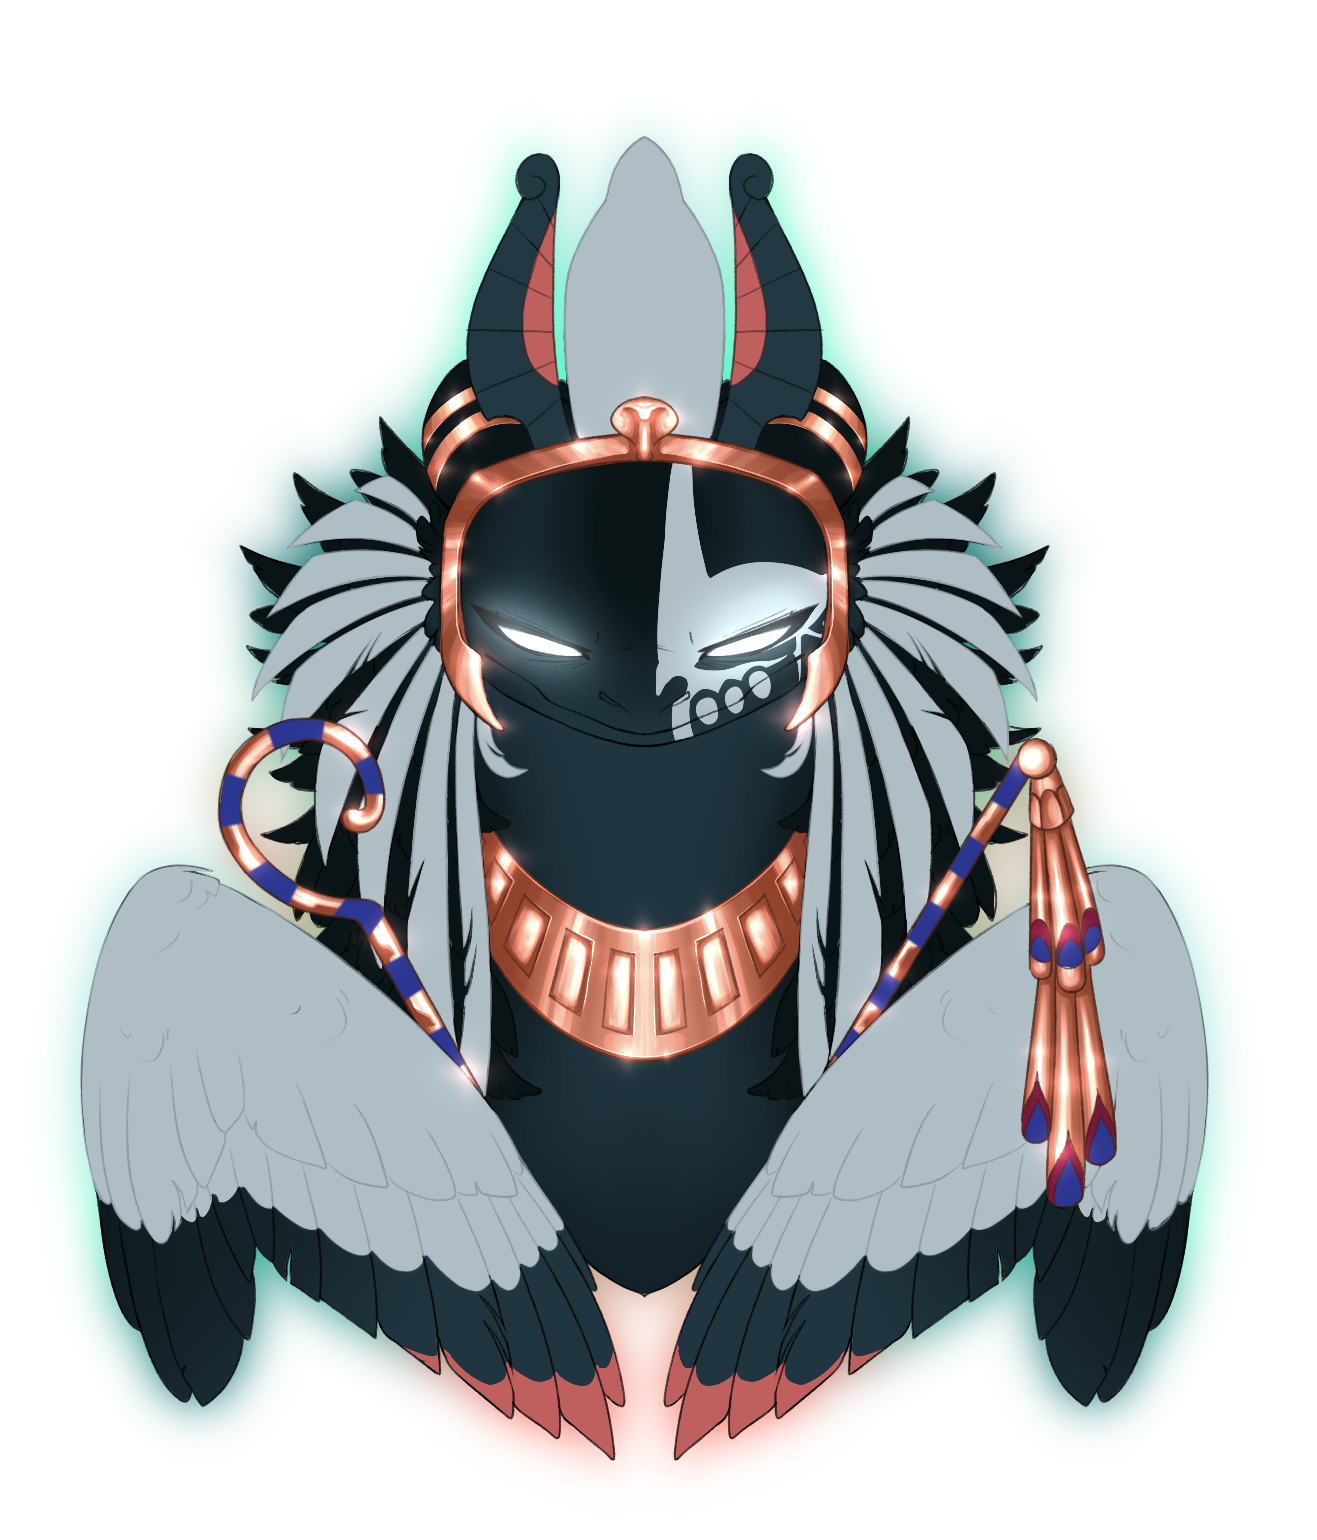
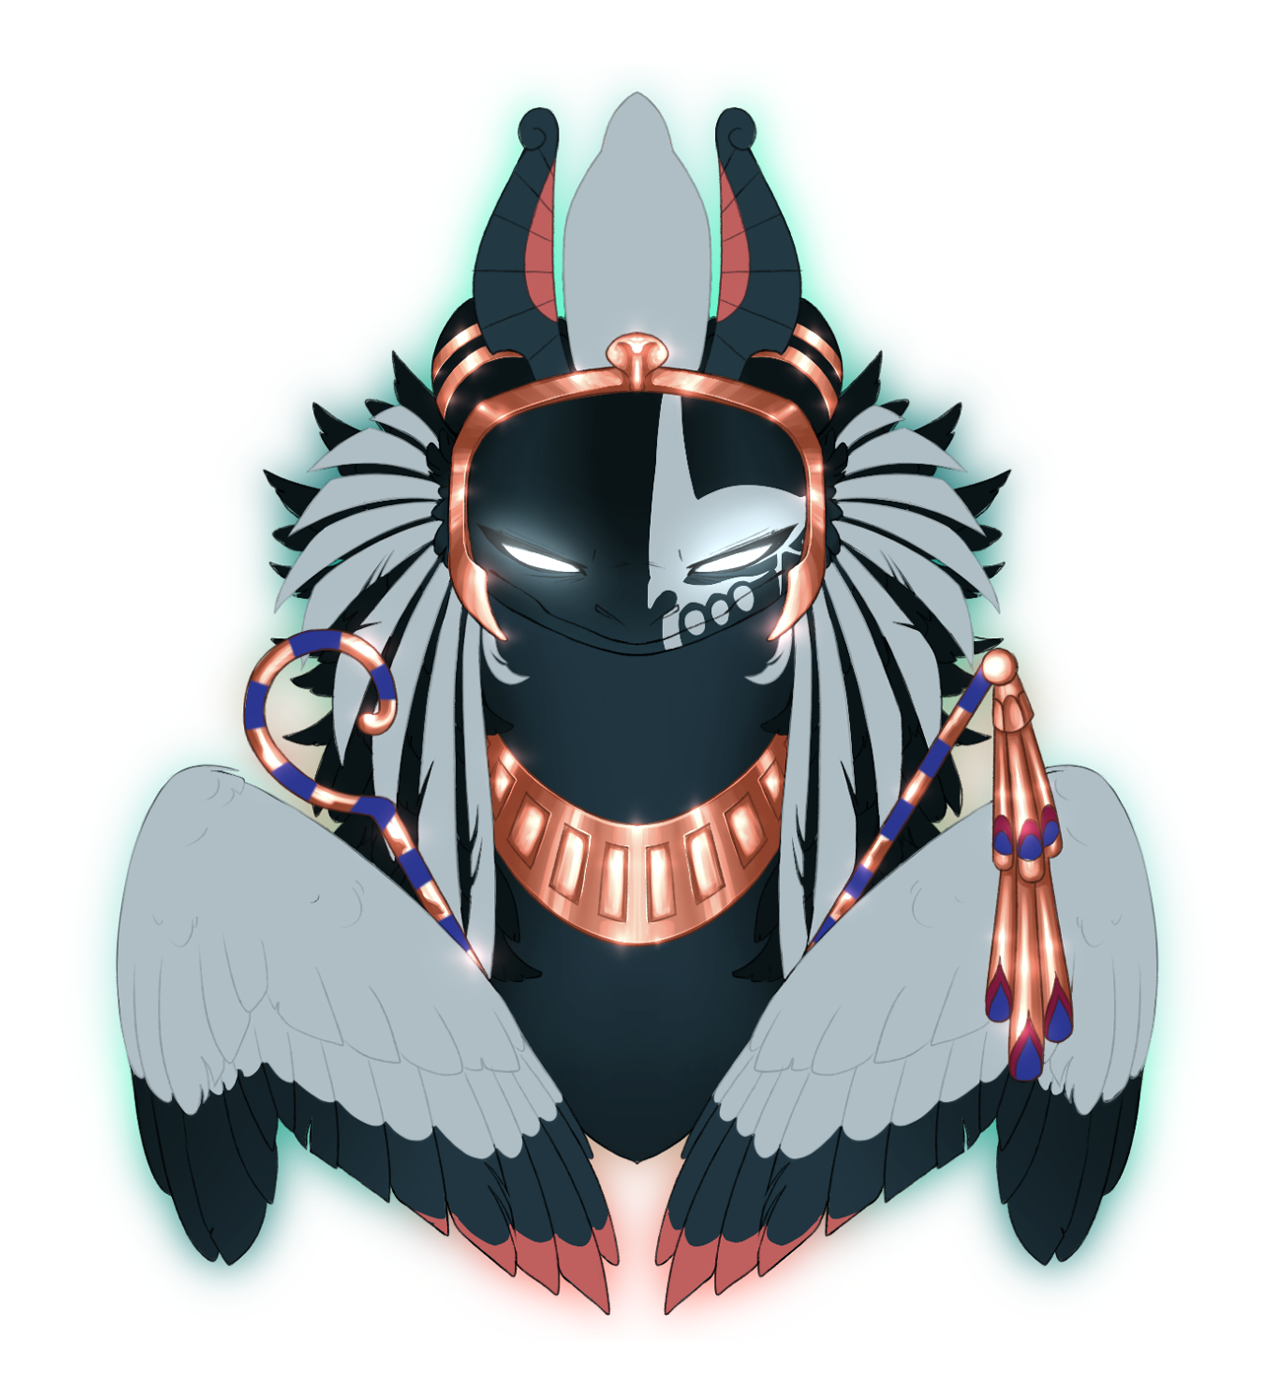
Final changes
Added new questions and edited the colours to make them brighter.

Changed region(s): [[0.0307, 0.062, 0.9205, 0.9611]]

diff --git a/script.js b/script.js
@@ -223,7 +223,45 @@ const questions = [
       { text: "Harry Potter and the Prisoner of Azkaban", traits: { WIS: 2 } },
       { text: "Kung Fu Panda 2", traits: { FURY: 1, DARK: 2 } },
     ]
-}
+},
+
+{
+    question: "As a growing young dragon, you get ready to embark on a journey to Thoth’s region so you may obtain an education. What do you pack with you?",
+    answers: [
+      { text: "A brand new scroll of the Book of the Dead: you never know when you’re going to die", traits: { DEATH: 2, CARE: 1 } },
+      { text: "Extra blank papyrus scrolls and reed brushes all meticulously and obsessively color coded and tabbed: it’s never a bad idea to come to class extra prepared", traits: { WIS: 2} },
+      { text: "A pair of aerial goggles: what if you’re flying and get bugs and sand in your eyes?", traits: { HONOR: 1 } },
+      { text: "An amulet of protection: when going to a new place, you should always have a way to protect yourself from bad spirits and energies", traits: { HONOR: 1, GROW: 2 } },
+      { text: "I don’t need to pack I’ll just figure it out when I get there", traits: { CHAOS: 2, FURY: 3 } },
+      { text: "Extra gems and gold: for souvenirs, or if ever in an emergency, you’ll be able to afford extra resources", traits: { CARE: 2 } },
+      { text: "Extra accessories, linens, and self care items: a good, well crafted impression is a lasting impression", traits: { CHAOS: 1, HONOR: 2 } },
+    ]
+},
+
+{
+    question: "After a long flight from home, you finally reach the region of Thoth and arrive at the god’s temple, ready to pick subjects to study. What subject piques your interest the most?",
+    answers: [
+      { text: "Subject of medicine, healing, and botany", traits: { CARE: 2,DEATH: 2 } },
+      { text: "Subject of social and political rhetoric and language", traits: { WIS: 2, CHAOS: 2 } },
+      { text: "Subject of precious gems and metal-smithing", traits: { FURY: 1, GROW: 1 } },
+      { text: "Subject of law and justice", traits: { HONOR: 1, DEATH: 1 } },
+      { text: "Subject of myths, and histories", traits: { WIS: 1, GROW: 1 } },
+      { text: "Subject of celestial and geographic navigation ", traits: { WIS: 1, HONOR: 1 } },
+      { text: "Subject of the arts of aerial combat", traits: { FURY: 2, HONOR: 2 } },
+    ]
+},
+
+{
+    question: "After a long day of attending your subjects, how do you choose to spend the rest of your day?",
+    answers: [
+      { text: "Stay after class to get to know your professors and make a good, lasting impression: you never know when a good connection can come in handy later down the road", traits: { CHAOS: 2, CARE: 2 } },
+      { text: "Retire to your newly assigned room for the season and take a nap", traits: { CARE: 1, GROW: 1 } },
+      { text: "Head to the temple’s grand library and begin hitting the books: you plan on being the best and strongest student here ", traits: { FURY: 1, WIS: 2 } },
+      { text: "Spontaneously take a flight around campus and explore the area: you’re in a new region and there’s so many new things to see and experience", traits: { HONOR: 2, CHAOS: 1 } },
+      { text: "Attend a social gathering in the tombs: you want to celebrate this new chapter of life, and meet other dragons who are also beginning their studies ", traits: { DEATH: 2, GROW: 1 } },
+      { text: "Blow off some steam and enter a club for aerial combat: getting some physical exercise is a great way to decompress ", traits: { FURY: 2, HONOR: 1 } },
+    ]
+},
 ];
 
 let currentQuestion = 0;
@@ -295,7 +333,7 @@ const gods = [
 const godVisuals = {
   Thoth: {
     image: "img/thoth.png",
-    gradient: "linear-gradient(90deg, #05153c , #4192a1)"
+    gradient: "linear-gradient(90deg, #2045a1 , #3dc8e0)"
   },
   Anubis: {
     image: "img/anubis.png",
@@ -307,11 +345,11 @@ const godVisuals = {
   },
   Osiris: {
     image: "img/osiris.png",
-    gradient: "linear-gradient(90deg, #122025, #3d545e)"
+    gradient: "linear-gradient(90deg, #4a7c8a, #7fa9b3)"
   },
   Seth: {
     image: "img/seth.png",
-    gradient: "linear-gradient(90deg, #32141b, #1d133c)"
+    gradient: "linear-gradient(90deg, #8b3a4a, #6b4a7f)"
   },
   Sekhmet: {
     image: "img/sekhmet.png",
@@ -323,7 +361,7 @@ const godVisuals = {
   },
   Apophis: {
     image: "img/apophis.png",
-    gradient: "linear-gradient(90deg, #16157f, #a71431)"
+    gradient: "linear-gradient(90deg, #1c19ad, #ca2546)"
   }
 };
 

diff --git a/style.css b/style.css
@@ -289,13 +289,13 @@ button:active {
 
 #result-layout {
   display: flex;
-  flex-direction: column;
+  flex-direction: row;
   gap: 30px;
   align-items: center;
   justify-content: center;
   margin-top: 30px;
   width: 100%;
-  max-width: 500px;
+  max-width: 1200px;
   padding: 0 15px;
   animation: slideIn 1s ease-out;
 }
@@ -505,7 +505,7 @@ button:active {
   #result-layout {
     flex-direction: row;
     gap: 40px;
-    align-items: stretch;
+    align-items: flex-start;
     padding: 0;
   }
 
@@ -516,7 +516,7 @@ button:active {
   #trait-breakdown,
   #right-column {
     flex: 0 0 280px;
-    height: 100%;
+    height: auto;
   }
 
   #god-card {

diff --git a/index.html b/index.html
@@ -64,13 +64,11 @@
 
 
       <!-- RIGHT: LORE PANEL -->
-      <div id="right-column">
+      <div id="lore-panel">
         <h3 id="lore-title">Chronicle</h3>
-        <div id="lore-panel">
-          <p id="lore-text">
-            The ancient scriptures whisper of this entity...
-          </p>
-        </div>
+        <p id="lore-text">
+          The ancient scriptures whisper of this entity...
+        </p>
       </div>
 
     </div>
